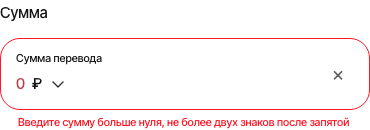
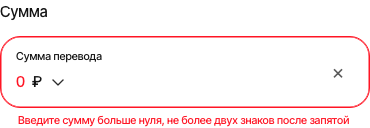
Refine guest form strokes and pixel alignment

diff --git a/src/styles.css b/src/styles.css
@@ -1422,3 +1422,24 @@ body:has(.guest-direction-sheet[open]) { overflow:hidden; }
 .guest-inline-source:not(.guest-international-transfer):not(.has-quote) .guest-swap-cards { top:calc(100% + 10px); }
 .guest-inline-source:not(.guest-international-transfer):not(.has-quote) .demo-card-suggestion { top:106px; }
 .guest-inline-source:not(.guest-international-transfer):not(.has-quote) .source-section>.demo-card-suggestion { top:113px; }
+
+/* Fractional Figma strokes must not be rounded down by CSS border rasterization. */
+.guest-inline-source .destination-field,
+.guest-inline-source .card-details-row input {
+  --guest-field-stroke:#d5d5da;
+  border:1px solid var(--guest-field-stroke);
+  box-shadow:inset 0 0 0 .5px var(--guest-field-stroke);
+}
+.guest-inline-source .card-details-row input { box-shadow:inset 0 0 0 .8px var(--guest-field-stroke); }
+.guest-inline-source .recipient-card-field { padding-inline:15px; }
+.guest-inline-source .recipient-card-field .scan-card { right:15px; }
+.guest-inline-source .destination-field:focus-within,
+.guest-inline-source .card-details-row input:focus,
+.guest-inline-source .card-details-row:has(.expiry-picker[open]) input[data-expiry] { --guest-field-stroke:#414141; }
+@media(hover:hover) {
+  .guest-inline-source .destination-field:hover,
+  .guest-inline-source .card-details-row input:hover { --guest-field-stroke:#414141; }
+}
+.guest-inline-source .destination-field:has(input[aria-invalid=true]),
+.guest-inline-source .card-details-row input[aria-invalid=true] { --guest-field-stroke:#ff1524; }
+.guest-transfer .guest-transfer-title>span { gap:6.33px; }
